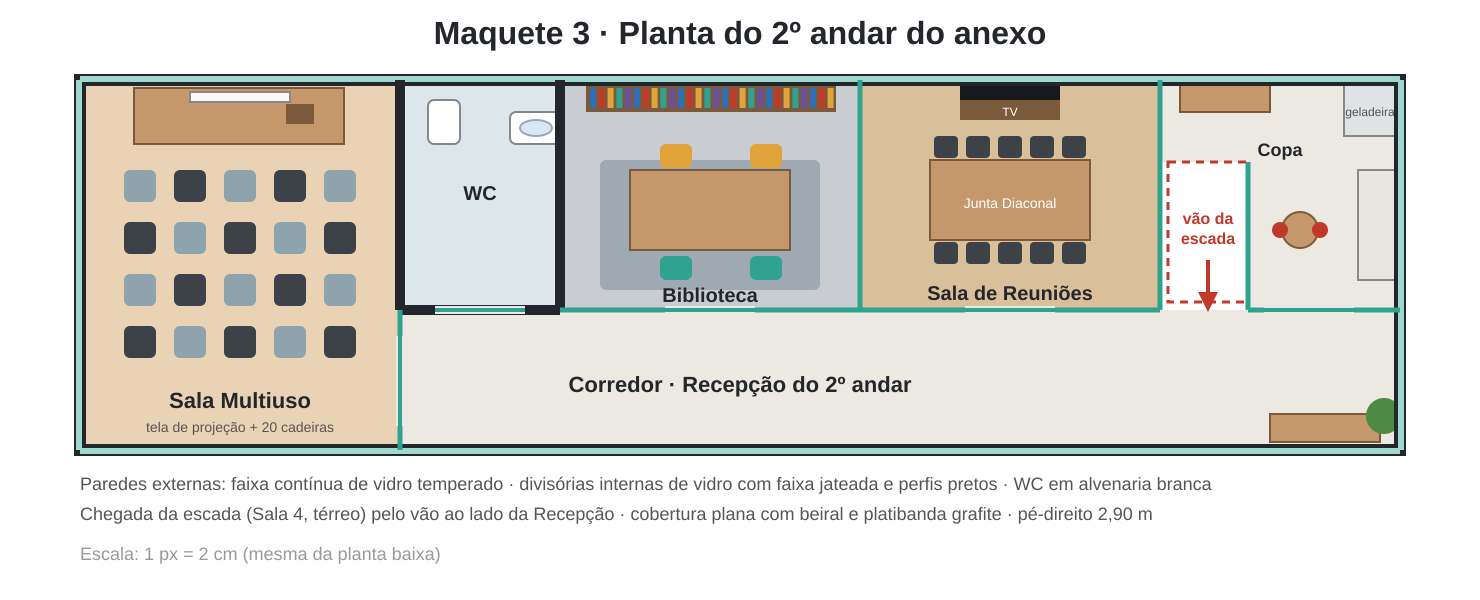
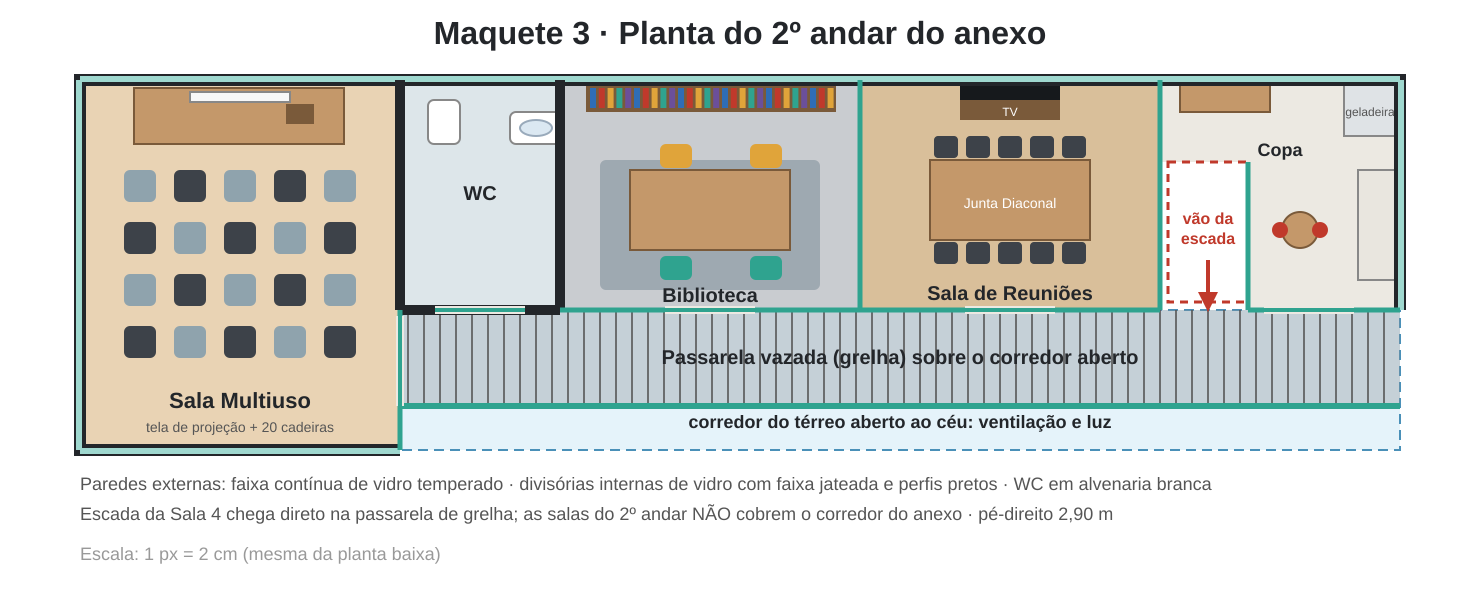
Maquete 3 etapa 45: corredor do anexo aberto ao ceu (ventilacao) e passarela vazada no 2o andar
Claude-Session: https://claude.ai/code/session_015gh4tS64wXyJ2ghbw66cFX

Changed region(s): [[0.2486, 0.51, 0.9635, 0.78], [0.0622, 0.84, 0.777, 0.87]]

diff --git a/projeto3/maquete.html b/projeto3/maquete.html
@@ -56,7 +56,7 @@
 <div id="app">
   <div id="stage"><canvas id="c"></canvas></div>
   <aside id="side">
-    <div class="top"><h1>Maquete 3 · Visão 3D</h1><p>Maquete 3: 2º andar no anexo (Multiuso, WC, Biblioteca, Sala de Reuniões, Copa e Recepção) com escada na Sala 4; Cantina com balcão de atendimento e telhado de policarbonato; Cozinha e Sala de Apoio com vidro temperado; porta de vidro mais larga no corredor do anexo; bebedouro na outra ponta do Hall; Estacionamento 1 com 4 vagas e fachada com 2 portas de vidro</p></div>
+    <div class="top"><h1>Maquete 3 · Visão 3D</h1><p>Maquete 3: 2º andar no anexo (Multiuso, WC, Biblioteca, Sala de Reuniões e Copa, com passarela vazada sobre o corredor aberto ao céu) com escada na Sala 4; Cantina com balcão de atendimento e telhado de policarbonato; Cozinha e Sala de Apoio com vidro temperado; porta de vidro mais larga no corredor do anexo; bebedouro na outra ponta do Hall; Estacionamento 1 com 4 vagas e fachada com 2 portas de vidro</p></div>
     <div class="tools">
   <button id="tRoof" class="on">Telhado</button>
   <button id="tLabels" class="on">Nomes</button>
@@ -1056,13 +1056,24 @@
     // laje do piso (com o vão da escada) e acabamentos
     var xa = X(40) - 0.11, xb = X(700) + 0.11, za = Z(40) - 0.11, zb = Z(225) + 0.09;
     var hx0 = X(580) + 0.08, hx1 = hx0 + 0.8, hz1 = Z(155) - 0.08, hz0 = Z(40) + 0.11 + (hz1 - (Z(40) + 0.11) - 1.4);
-    [[xa, xb, za, hz0], [xa, xb, hz1, zb], [xa, hx0, hz0, hz1], [hx1, xb, hz0, hz1]].forEach(function(q){ box(q[1] - q[0], 0.12, q[3] - q[2], 0xd8d4cb, (q[0] + q[1]) / 2, F - 0.06, (q[2] + q[3]) / 2); });
+    var xm = X(200) + 0.06, zs = Z(155) + 0.06, zp = Z(203);   // MAQUETE 3 (Etapa 45): o corredor do anexo (x200..700, y155..225) fica ABERTO (ventilação/iluminação); só passarela vazada
+    [[xa, xm, za, zb], [xm, xb, za, hz0], [xm, hx0, hz0, zs], [hx1, xb, hz0, zs], [hx0, hx1, hz1, zs]].forEach(function(q){ box(q[1] - q[0], 0.12, q[3] - q[2], 0xd8d4cb, (q[0] + q[1]) / 2, F - 0.06, (q[2] + q[3]) / 2); });
+    // passarela em grelha metálica vazada (0,96 m) sobre o corredor aberto: barras longitudinais + travessas, estrutura grafite
+    (function(){ var gx0 = xm, gx1 = xb, gz0 = zs, gz1 = zp, gl = gx1 - gx0;
+      box(gl, 0.1, 0.06, dk, (gx0 + gx1) / 2, F - 0.05, gz0 + 0.03); box(gl, 0.1, 0.06, dk, (gx0 + gx1) / 2, F - 0.05, gz1 - 0.03);
+      for (var gk = 0; gk <= Math.round(gl / 0.3); gk++) box(0.025, 0.04, gz1 - gz0, 0x6b7075, gx0 + gk * 0.3, F - 0.02, (gz0 + gz1) / 2, null, { cast: false });
+      for (var gm = 1; gm < 5; gm++) box(gl, 0.02, 0.02, 0x8a8f94, (gx0 + gx1) / 2, F - 0.005, gz0 + gm * (gz1 - gz0) / 5, null, { cast: false });
+      // guarda-corpo de vidro (1,10 m) no lado sul e na ponta leste, com corrimão grafite
+      box(gl, 1.1, 0.03, 0, (gx0 + gx1) / 2, F + 0.55, gz1, null, { material: tempWinMat, cast: false }); box(gl, 0.05, 0.06, dk, (gx0 + gx1) / 2, F + 1.1, gz1);
+      box(0.03, 1.1, gz1 - gz0, 0, gx1 - 0.015, F + 0.55, (gz0 + gz1) / 2, null, { material: tempWinMat, cast: false }); box(0.06, 0.05, gz1 - gz0, dk, gx1 - 0.03, F + 1.1, (gz0 + gz1) / 2);
+      for (var gp = 0; gp <= 8; gp++) box(0.04, 1.1, 0.04, dk, gx0 + gp * gl / 8, F + 0.55, gz1);
+    })();
     function fl(x1, y1, x2, y2, col){ box((x2 - x1) * S, 0.02, (y2 - y1) * S, col, X((x1 + x2) / 2), F + 0.01, Z((y1 + y2) / 2), null, { cast: false }); }
     fl(40, 40, 200, 225, 0xc4986a); fl(200, 40, 280, 155, 0xcfd8dc); fl(280, 40, 430, 155, 0x9aa0a6); fl(430, 40, 580, 155, 0xa57c52);
-    fl(580, 40, 700, 81, 0xe3e1db); fl(624, 81, 700, 155, 0xe3e1db); fl(200, 155, 700, 225, 0xe3e1db);
+    fl(580, 40, 700, 81, 0xe3e1db); fl(624, 81, 700, 155, 0xe3e1db);
     // paredes
-    uwall(true, 40, 40, 700, 'ext'); uwall(true, 225, 40, 700, 'ext'); uwall(false, 40, 40, 225, 'ext'); uwall(false, 700, 40, 225, 'ext');
-    uwall(false, 200, 40, 155, 'solid'); uwall(false, 200, 155, 225, 'glass', [{ a: 168, b: 213 }]);
+    uwall(true, 40, 40, 700, 'ext'); uwall(true, 225, 40, 200, 'ext'); uwall(false, 40, 40, 225, 'ext'); uwall(false, 700, 40, 155, 'ext');
+    uwall(false, 200, 40, 155, 'solid'); uwall(false, 200, 155, 225, 'glass', [{ a: 158, b: 203 }]);
     uwall(true, 155, 200, 280, 'solid', [{ a: 217.5, b: 262.5, leaf: 'white' }]); uwall(false, 280, 40, 155, 'solid');
     uwall(true, 155, 280, 430, 'glass', [{ a: 332.5, b: 377.5 }]); uwall(false, 430, 40, 155, 'glass');
     uwall(true, 155, 430, 580, 'glass', [{ a: 482.5, b: 527.5 }]); uwall(false, 580, 40, 155, 'glass');
@@ -1070,12 +1081,16 @@
     // guarda-corpo de vidro no lado norte do vão da escada
     box(hx1 - hx0, 1.0, 0.03, 0, (hx0 + hx1) / 2, F + 0.5, hz0, null, { material: tempWinMat, cast: false }); box(hx1 - hx0, 0.04, 0.05, dk, (hx0 + hx1) / 2, F + 1.0, hz0);
     // cobertura moderna (some junto com o telhado): forro, laje com beiral, platibanda grafite, spots
-    var cx = (xa + xb) / 2, cz = (za + zb) / 2, RW = xb - xa + 0.7, RD = zb - za + 0.7;
-    box(xb - xa, 0.1, zb - za, 0xffffff, cx, TOP + 0.05, cz, roofGroup, { cast: false });
-    box(RW, 0.18, RD, 0xe9e6df, cx, TOP + 0.19, cz, roofGroup);
-    box(RW, 0.32, 0.06, dk, cx, TOP + 0.19, za - 0.35, roofGroup); box(RW, 0.32, 0.06, dk, cx, TOP + 0.19, zb + 0.35, roofGroup);
-    box(0.06, 0.32, RD, dk, xa - 0.35, TOP + 0.19, cz, roofGroup); box(0.06, 0.32, RD, dk, xb + 0.35, TOP + 0.19, cz, roofGroup);
-    [[85, 70], [85, 140], [85, 200], [160, 70], [160, 140], [160, 200], [240, 98], [320, 70], [390, 70], [320, 120], [390, 120], [470, 70], [540, 70], [470, 125], [540, 125], [602, 60], [660, 60], [660, 120], [230, 190], [310, 190], [400, 190], [490, 190], [570, 190], [640, 190], [680, 190]].forEach(function(q){
+    function cobertura(x1, x2, z1, z2, nS, eS, nW, nE){   // forro branco + laje com beiral e platibanda (beiral só onde não cobre o corredor aberto)
+      var ox1 = x1 - (nW ? 0.35 : 0), ox2 = x2 + (nE ? 0.35 : 0), oz1 = z1 - 0.35, oz2 = z2 + (nS ? 0.35 : 0), cxx = (ox1 + ox2) / 2, czz = (oz1 + oz2) / 2;
+      box(x2 - x1, 0.1, z2 - z1, 0xffffff, (x1 + x2) / 2, TOP + 0.05, (z1 + z2) / 2, roofGroup, { cast: false });
+      box(ox2 - ox1, 0.18, oz2 - oz1, 0xe9e6df, cxx, TOP + 0.19, czz, roofGroup);
+      box(ox2 - ox1, 0.32, 0.06, dk, cxx, TOP + 0.19, oz1, roofGroup); box(ox2 - ox1, 0.32, 0.06, dk, cxx, TOP + 0.19, oz2, roofGroup);
+      if (nW) box(0.06, 0.32, oz2 - oz1, dk, ox1, TOP + 0.19, czz, roofGroup);
+      if (nE) box(0.06, 0.32, oz2 - oz1, dk, ox2, TOP + 0.19, czz, roofGroup);
+    }
+    cobertura(xa, xm, za, zb, true, true, true, false); cobertura(xm, xb, za, zs, false, false, false, true);
+    [[85, 70], [85, 140], [85, 200], [160, 70], [160, 140], [160, 200], [240, 98], [320, 70], [390, 70], [320, 120], [390, 120], [470, 70], [540, 70], [470, 125], [540, 125], [602, 60], [660, 60], [660, 120]].forEach(function(q){
       var sp = new THREE.Mesh(new THREE.CylinderGeometry(0.1, 0.1, 0.02, 16), glowM); sp.position.set(X(q[0]), TOP - 0.01, Z(q[1])); roofGroup.add(sp);
     });
     // móveis
@@ -1115,13 +1130,10 @@
     var tb = new THREE.Mesh(new THREE.CylinderGeometry(0.35, 0.35, 0.04, 20), mat(oak)); tb.position.set(X(650), F + 1.05, Z(115)); root.add(tb); box(0.06, 1.03, 0.06, dk, X(650), F + 0.52, Z(115));
     [-1, 1].forEach(function(o){ var st = new THREE.Mesh(new THREE.CylinderGeometry(0.17, 0.17, 0.05, 16), mat(0xc0392b)); st.position.set(X(650) + o * 0.55, F + 0.72, Z(115)); root.add(st); box(0.04, 0.7, 0.04, dk, X(650) + o * 0.55, F + 0.36, Z(115)); });
     box(1.5, 0.45, 0.45, oak, X(602), F + 0.225, Z(40) + 0.11 + 0.225); [-0.45, 0.45].forEach(function(o){ box(0.4, 0.12, 0.12, 0xe0a43a, X(602) + o, F + 0.5, Z(40) + 0.11 + 0.12); });
-    // Recepção/corredor: banco, vaso de planta, placa luminosa
-    box(1.6, 0.45, 0.4, oak, X(662), F + 0.225, Z(225) - 0.09 - 0.2); box(1.6, 0.1, 0.42, 0x3d4249, X(662), F + 0.5, Z(225) - 0.09 - 0.2);
-    var pot = new THREE.Mesh(new THREE.CylinderGeometry(0.22, 0.17, 0.5, 14), mat(0xe6e2d8)); pot.position.set(X(692), F + 0.25, Z(208)); root.add(pot);
-    var plant = new THREE.Mesh(new THREE.SphereGeometry(0.3, 12, 10), mat(0x4f8a45)); plant.scale.set(1, 1.6, 1); plant.position.set(X(692), F + 0.9, Z(208)); root.add(plant);
-    var sgn = new THREE.Mesh(new THREE.PlaneGeometry(1.7, 0.42), new THREE.MeshBasicMaterial({ map: signTex('JUNTA DIACONAL · 2º ANDAR', 1024, 256, '#23262a', '#fff1c9', 84) })); sgn.position.set(X(700) - 0.13, F + 1.9, Z(185)); sgn.rotation.y = -Math.PI / 2; root.add(sgn);
+    // placa luminosa na fachada do Copa, voltada para a passarela
+    var sgn = new THREE.Mesh(new THREE.PlaneGeometry(1.4, 0.34), new THREE.MeshBasicMaterial({ map: signTex('JUNTA DIACONAL · 2º ANDAR', 1024, 256, '#23262a', '#fff1c9', 80) })); sgn.position.set(X(662), F + 2.5, Z(155) + 0.07); root.add(sgn);
     // rótulos dos ambientes (aparecem com o botão Nomes)
-    label('Sala Multiuso', 120, 130, 5.4, 2.0); label('WC', 240, 98, 5.0, 0.9); label('Biblioteca', 355, 98, 5.4, 1.7); label('Sala de Reuniões', 505, 98, 5.4, 2.2); label('Copa', 662, 60, 5.0, 1.0); label('Recepção 2º andar', 640, 190, 5.2, 2.2);
+    label('Sala Multiuso', 120, 130, 5.4, 2.0); label('WC', 240, 98, 5.0, 0.9); label('Biblioteca', 355, 98, 5.4, 1.7); label('Sala de Reuniões', 505, 98, 5.4, 2.2); label('Copa', 662, 60, 5.0, 1.0); label('Passarela (corredor aberto)', 450, 178, 4.6, 2.6);
   })();
 
   // ---------- Telhados ----------
@@ -1261,7 +1273,7 @@
       [[xa, xb, zn, hz0], [hx2, xb, hz0, zs], [xa, hx1, hz0, zs]].forEach(function(q){ box(q[1] - q[0], 0.08, q[3] - q[2], 0, (q[0] + q[1]) / 2, BH - 0.04, (q[2] + q[3]) / 2, forroGroup, { material: lajeMat, cast: false }); });
       lampRound(637, 100);
     })();
-    isopor(50, 155, 700, 220); [125, 240, 355, 505, 637].forEach(function(px){ lampRound(px, 188); });   // corredor do anexo
+    isopor(50, 155, 200, 220); lampRound(125, 188);   // MAQUETE 3 (Etapa 45): só a Sala 1 tem forro aí; o corredor do anexo (x200..700) é aberto ao céu
   })();
 
   // ---------- Árvores ----------
@@ -1339,7 +1351,8 @@
     { id: 'varanda', name: 'Varanda', g: 'Pátio (ambientes)', pos: [-2.8, 1.65, 0.0], tgt: [-2.8, 1.5, 7.0], roof: true, labels: false, fp: true },
     { id: 'a2geral', name: '2º andar · visão de cima', g: '2º andar', pos: [1.0, 16, -7.0], tgt: [0.6, 3.2, -15.6], roof: false, labels: true },
     { id: 'a2ext', name: '2º andar · volume externo', g: '2º andar', pos: [5.5, 9.5, -4.5], tgt: [0.5, 4.5, -15.0], roof: true, labels: false },
-    { id: 'a2cor', name: '2º andar · corredor e recepção', g: '2º andar', pos: [-5.0, 4.8, -14.25], tgt: [6.2, 4.7, -14.25], roof: true, labels: false, fp: true },
+    { id: 'a2cor', name: '2º andar · passarela vazada', g: '2º andar', pos: [-3.0, 4.75, -14.42], tgt: [6.2, 4.5, -14.42], roof: true, labels: false, fp: true },
+    { id: 'corabe', name: 'Anexo · corredor aberto ao céu', g: 'Anexo', pos: [-2.9, 1.65, -14.4], tgt: [4.5, 3.4, -14.4], roof: true, labels: false, fp: true },
     { id: 'a2reun', name: '2º andar · Sala de Reuniões', g: '2º andar', pos: [1.5, 4.8, -16.1], tgt: [3.9, 4.3, -16.1], roof: true, labels: false, fp: true },
     { id: 'a2bib', name: '2º andar · Biblioteca', g: '2º andar', pos: [0.9, 4.8, -14.9], tgt: [-1.0, 4.2, -16.8], roof: true, labels: false, fp: true },
     { id: 'a2mult', name: '2º andar · Sala Multiuso', g: '2º andar', pos: [-3.6, 4.8, -14.2], tgt: [-5.4, 4.2, -16.6], roof: true, labels: false, fp: true },

diff --git a/index.html b/index.html
@@ -114,7 +114,7 @@
   <div class="panel" id="projeto3">
     <section>
       <h2>Maquete 3 — Visão 3D</h2>
-      <p class="sub">Parte da Maquete 2 (a mais bem aceita na reunião) com as mudanças propostas. Mudanças até agora: o pátio tem somente 2 ambientes, Cozinha (maior) e Lanchonete (Cantina), ambos em tamanho reduzido; com isso o Estacionamento 1 passou de 2 para 4 vagas; a fachada ganhou uma 2ª porta de vidro temperado, no extremo oposto à existente; o corredor de acesso ao anexo ficou mais largo (2,0 m), com o altar encurtado; a Sala 1 do anexo foi esticada até a parede da nave e ganhou porta de vidro temperado para o corredor; a Sala de Apoio às Mamães foi para o Hall, reduzida e em horizontal (poltrona, trocador, pia e micro-ondas), com janela de vidro temperado (a Cozinha também ganhou janela de vidro temperado), o bebedouro foi para a outra ponta do Hall e o Banheiro Masculino ganhou porta de acesso pelo Hall e os 2 carros da 1ª fileira do Estacionamento 2 (junto à porta da fachada) foram retirados; a porta do corredor do anexo ficou mais larga, em vidro temperado; a Sala 4 ganhou a escada para o 2º andar; a Cozinha tem vidro temperado da metade para cima; e a antiga Lanchonete virou Cantina, com balcão de atendimento e telhado de policarbonato; o anexo ganhou o 2º andar (Sala Multiuso, WC, Biblioteca, Sala de Reuniões da Junta Diaconal, Copa e Recepção), alcançado pela escada da Sala 4; e a Sala de Apoio às Mamães ficou com vidro temperado da metade para cima e acabamento de design, com porta de correr de vidro temperado; a Sala 4 (escada) ficou sem porta, com acesso livre; a porta do Banheiro Masculino pela varanda foi retirada (acesso só pelo Hall), e a antiga vaga no anexo virou a Sala 4. Dica: use as vistas <b>Cozinha e Lanchonete</b>, <b>Pátio</b> e, no menu 👁, <b>Pátio (ambientes)</b>.</p>
+      <p class="sub">Parte da Maquete 2 (a mais bem aceita na reunião) com as mudanças propostas. Mudanças até agora: o pátio tem somente 2 ambientes, Cozinha (maior) e Lanchonete (Cantina), ambos em tamanho reduzido; com isso o Estacionamento 1 passou de 2 para 4 vagas; a fachada ganhou uma 2ª porta de vidro temperado, no extremo oposto à existente; o corredor de acesso ao anexo ficou mais largo (2,0 m), com o altar encurtado; a Sala 1 do anexo foi esticada até a parede da nave e ganhou porta de vidro temperado para o corredor; a Sala de Apoio às Mamães foi para o Hall, reduzida e em horizontal (poltrona, trocador, pia e micro-ondas), com janela de vidro temperado (a Cozinha também ganhou janela de vidro temperado), o bebedouro foi para a outra ponta do Hall e o Banheiro Masculino ganhou porta de acesso pelo Hall e os 2 carros da 1ª fileira do Estacionamento 2 (junto à porta da fachada) foram retirados; a porta do corredor do anexo ficou mais larga, em vidro temperado; a Sala 4 ganhou a escada para o 2º andar; a Cozinha tem vidro temperado da metade para cima; e a antiga Lanchonete virou Cantina, com balcão de atendimento e telhado de policarbonato; o anexo ganhou o 2º andar (Sala Multiuso, WC, Biblioteca, Sala de Reuniões da Junta Diaconal, Copa e Recepção), alcançado pela escada da Sala 4, sem cobrir o corredor do anexo (que fica aberto ao céu, para ventilar; as salas de cima se ligam por uma passarela de grelha vazada); e a Sala de Apoio às Mamães ficou com vidro temperado da metade para cima e acabamento de design, com porta de correr de vidro temperado; a Sala 4 (escada) ficou sem porta, com acesso livre; a porta do Banheiro Masculino pela varanda foi retirada (acesso só pelo Hall), e a antiga vaga no anexo virou a Sala 4. Dica: use as vistas <b>Cozinha e Lanchonete</b>, <b>Pátio</b> e, no menu 👁, <b>Pátio (ambientes)</b>.</p>
       <iframe class="frame" data-src="projeto3/maquete.html" title="Visão 3D da Maquete 3" allowfullscreen></iframe>
       <div class="btns"><a class="btn" href="projeto3/maquete.html" target="_blank" rel="noopener">Abrir em tela cheia</a></div>
     </section>
